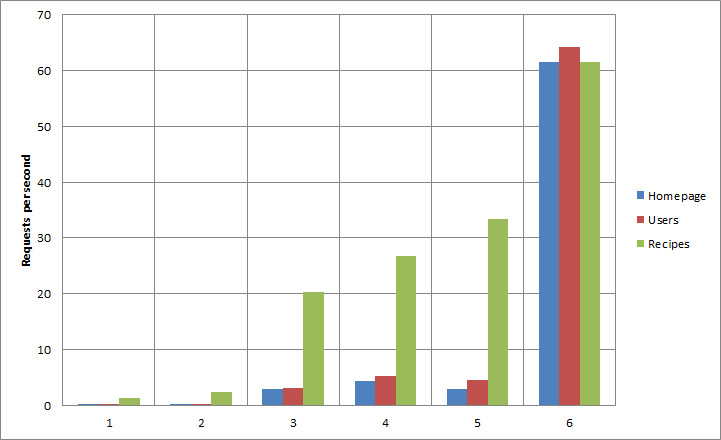
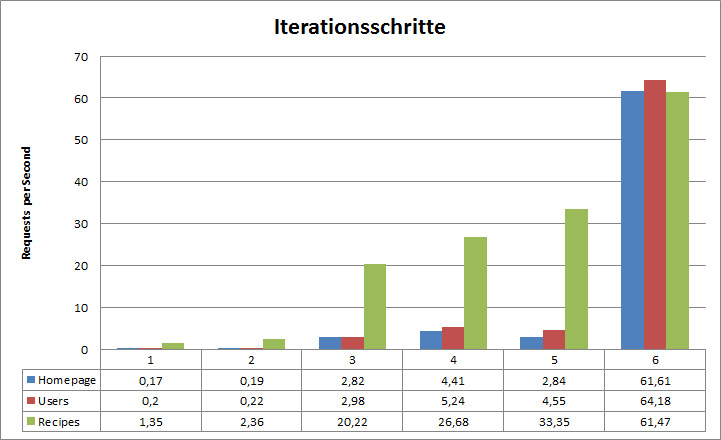
fazit added

diff --git a/shared/arecipe/analysis/fazit.md b/shared/arecipe/analysis/fazit.md
@@ -1,0 +1,26 @@
+# Fazit
+
+![Ergebnisse - Requests per second - Diagramm](https://raw.github.com/oveja87/salzburg-box/master/shared/arecipe/analysis/scalable.jpg)
+
+## Iterationsschritte
+
+1. Ausganssituation  
+2. Start im Production Mode
+3. Ersetzen der Datenbank in mySQL
+4. Update der Ruby Version auf 1.9.3
+5. Unicorn als Application Server nutzen
+6. Einsetzen von Caching mit Hilfe von memcached
+
+## Resultate
+
+Durch die eingesetzten Maßnahmen konnte die Webseite erfolgreich scaliert werden. Durch die verschiedenen Iterationsschritte konnten die Zugriffe pro Sekunde um das bis zu 350 Fache vermehrt werden. Dies wird im obigen Diagramm veranschaulicht.
+
+Hierzu wurde die Applikation zunächst im Production Mode gestartet, was bereits eine geringe Verbesserung brachte. Da vor allem die große Anzahl an Datenbankzugriffen beobachtet werden konnte wurde als nächstes die Datenbank auf mySQL umgestellt. MySQL verarbeitet Zugriffe deutlich schneller als die vorher verwendetet Datenbank SQLite. Durch diesen Schritt konnte bereits eine deutliche Steigerung der Zugriffe erreicht werden. Bei der Homepage und den Userseiten wurde eine Vervielfachung der Zugriffe um das ca. 3,5-fache erreicht. Bei den Rezeptseiten wurden die Zugriffe sogar um einen Faktor von 15 im Vergleich zum Ausgangssystem vermehrt.
+
+Nun konnte beim Aufrufen der Seite beobachtet werden, dass diese bei jedem 3. Ladevorgang länger benötigt. Dies kann vermieden werden, indem die Ruby Version auf 1.9.3. upgedatet wird, da es dort eine bessere Garbage Collection gibt. Durch diese Änderung konnte eine weitere Verbesserung der Zugriffsrate erzielt werden.
+
+Anschließend wurde der Application Server von Webrick auf Unicorn geändern, da so Requests synchron verarbeitet werden können. Hier wurde für die Rezeptseiten wieder eine Steigerung von 25% im Vergleich zu den Ergebnissen aus dem vorherigen Schritt erreicht werden. Bei der Startseite und den Userseiten kann hier jedoch eine geringe Verschlechterung beobachtet werden. Da diese jedoch gering ist und die Verbesserung bei den Rezeptseiten im Vergleich groß, soll Unicorn dennoch verwendet werden.
+
+Als letzer Schritt wurde schließlich Caching über memcached eingebunden. Hierdurch konnte bei allen Seiten nochmal eine deutliche Steigerung der Seitenzugriffe erreicht werden, unter der Vorraussetzung, dass die Inhalte bereits gecached sind. Durch Caching wurden bei allen Seiten zwischn 60 und 65 Zugriffe pro Sekunde erreicht.
+
+

diff --git a/shared/arecipe/analysis/caching.md b/shared/arecipe/analysis/caching.md
@@ -15,8 +15,8 @@
 ### Ergebnisse des Ausgangssystems
 
 * Homepage: 0.17 [#/sec]
-* Users: ~ 0.20
-* Recipes: ~ 1.35
+* Users: ~ 0.20 [#/sec]
+* Recipes: ~ 1.35 [#/sec]
 
 ### Ergebnisse aus vorherigem Schritt
 
@@ -35,10 +35,6 @@
 * Improved front page requests per second by 36241%
 * Improved user page requests per second by 32090%
 * Improved page requests per second by 4553%
-
-## Nächster Schritt
-
-* Als letzter Schritt soll Caching eingebaut werden, sodass bei mehrfachem Zugriff weniger Daten geladen werden müssen.
 
 ## Durchgeführte Tests
 

diff --git a/shared/arecipe/analysis/unicorn.md b/shared/arecipe/analysis/unicorn.md
@@ -4,7 +4,7 @@
 
 *   Ruby-1.9.3
 *   Unicorn 
-*   Production Mode
+*   Production Mode#
 *   mySQL
 
 ## Server starten mit bundle exec unicorn -p 300 -c ./config/unicorn.rb -E production
@@ -14,8 +14,8 @@
 ### Ergebnisse des Ausgangssystems
 
 * Homepage: 0.17 [#/sec]
-* Users: ~ 0.20
-* Recipes: ~ 1.35
+* Users: ~ 0.20 [#/sec]
+* Recipes: ~ 1.35 [#/sec]
 
 ### Ergebnisse aus vorherigem Schritt
 

diff --git a/shared/arecipe/analysis/analysis.md b/shared/arecipe/analysis/analysis.md
@@ -12,14 +12,14 @@
 ### Ohne Login
 
 * Homepage: 0.17 [#/sec]
-* Users: ~ 0.20
-* Recipes: ~ 1.35
+* Users: ~ 0.20 [#/sec]
+* Recipes: ~ 1.35 [#/sec]
 
 ### Mit Login
 
-* Homepage: 0.17
-* Users: 0.20
-* Recipes: ~ 1.35
+* Homepage: 0.17 [#/sec]
+* Users: 0.20 [#/sec]
+* Recipes: ~ 1.35 [#/sec]
 
 ## Ziele
 

diff --git a/shared/arecipe/analysis/mysql.md b/shared/arecipe/analysis/mysql.md
@@ -12,8 +12,8 @@
 ### Ergebnisse des Ausgangssystems
 
 * Homepage: 0.17 [#/sec]
-* Users: ~ 0.20
-* Recipes: ~ 1.35
+* Users: ~ 0.20 [#/sec]
+* Recipes: ~ 1.35 [#/sec]
 
 ### Ergebnisse aus vorherigem Schritt
 

diff --git a/shared/arecipe/analysis/ruby.md b/shared/arecipe/analysis/ruby.md
@@ -12,8 +12,8 @@
 ### Ergebnisse des Ausgangssystems
 
 * Homepage: 0.17 [#/sec]
-* Users: ~ 0.20
-* Recipes: ~ 1.35
+* Users: ~ 0.20 [#/sec]
+* Recipes: ~ 1.35 [#/sec]
 
 ### Ergebnisse aus vorherigem Schritt
 

diff --git a/shared/arecipe/analysis/productionmode.md b/shared/arecipe/analysis/productionmode.md
@@ -12,8 +12,8 @@
 ### Ergebnisse aus vorherigem Schritt
 
 * Homepage: 0.17 [#/sec]
-* Users: ~ 0.20
-* Recipes: ~ 1.35
+* Users: ~ 0.20 [#/sec]
+* Recipes: ~ 1.35 [#/sec]
 
 ### Neue Ergebnisse
 
